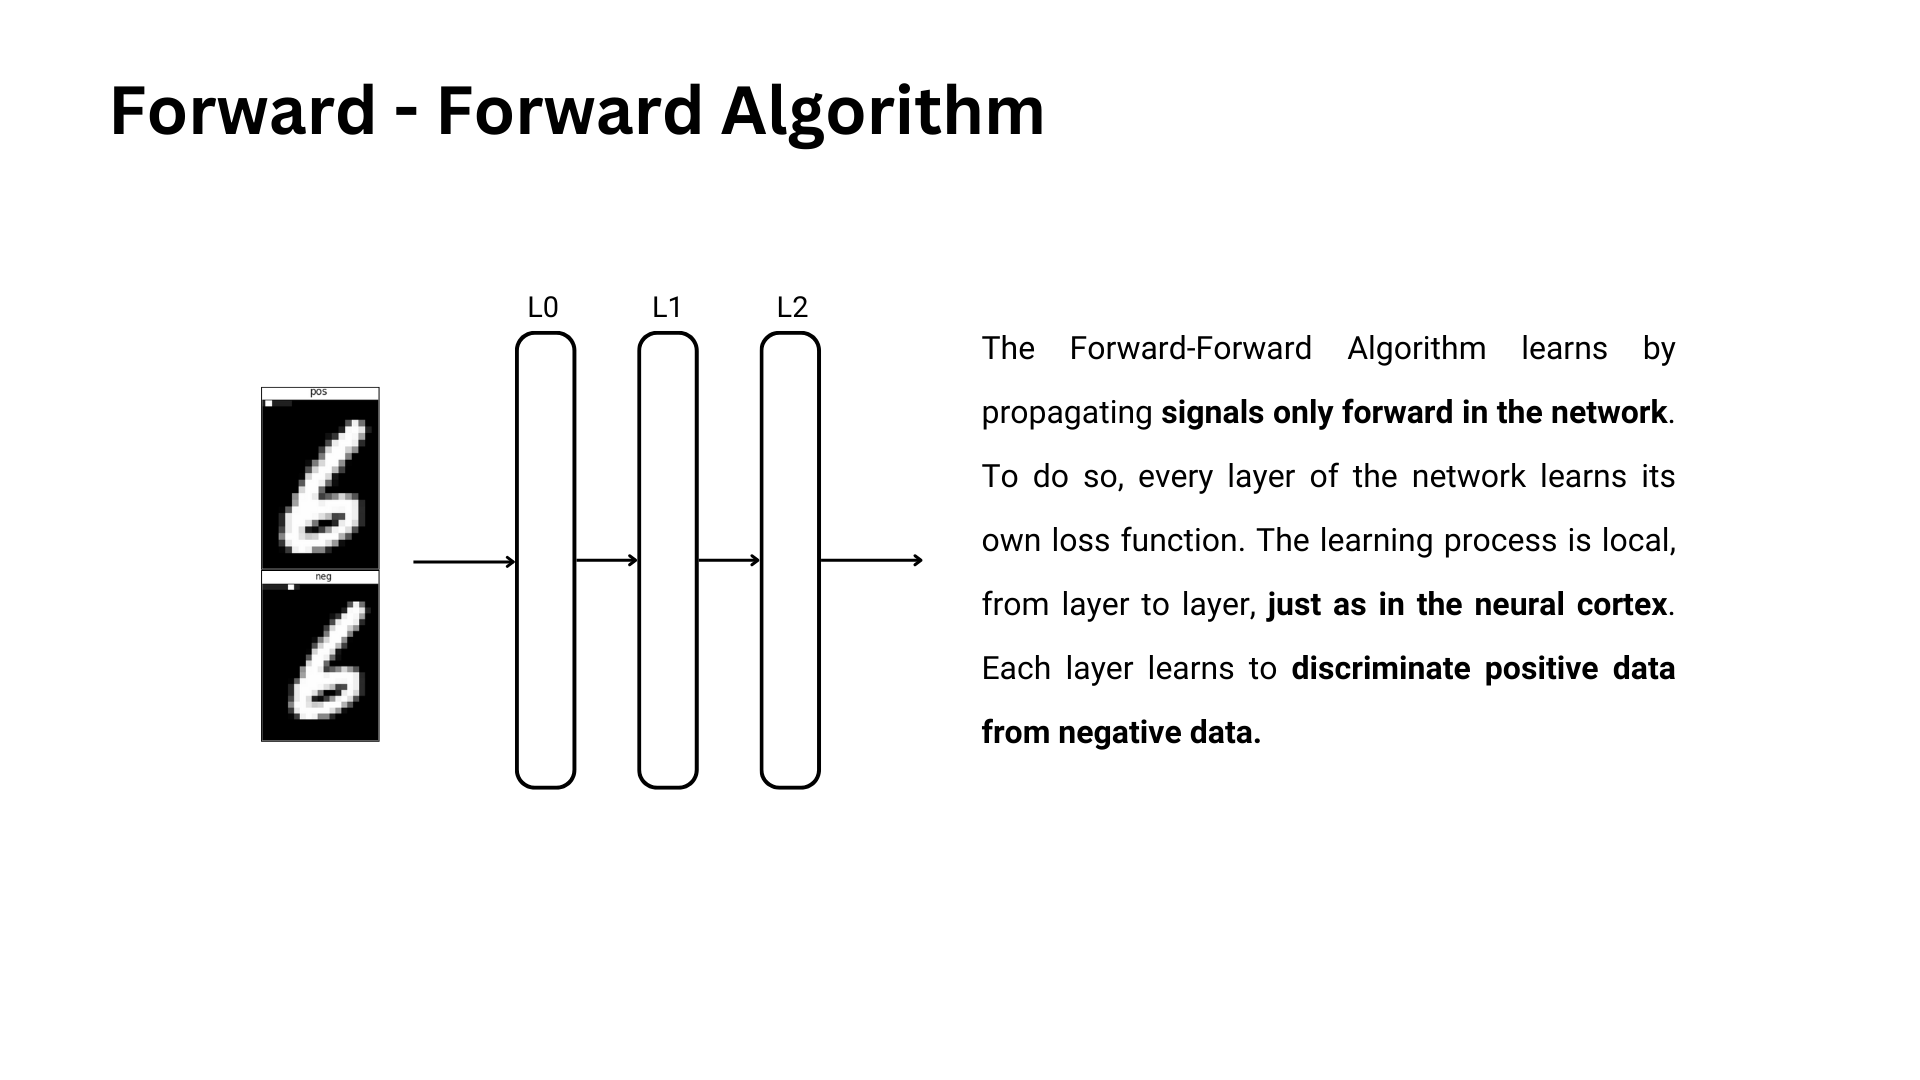
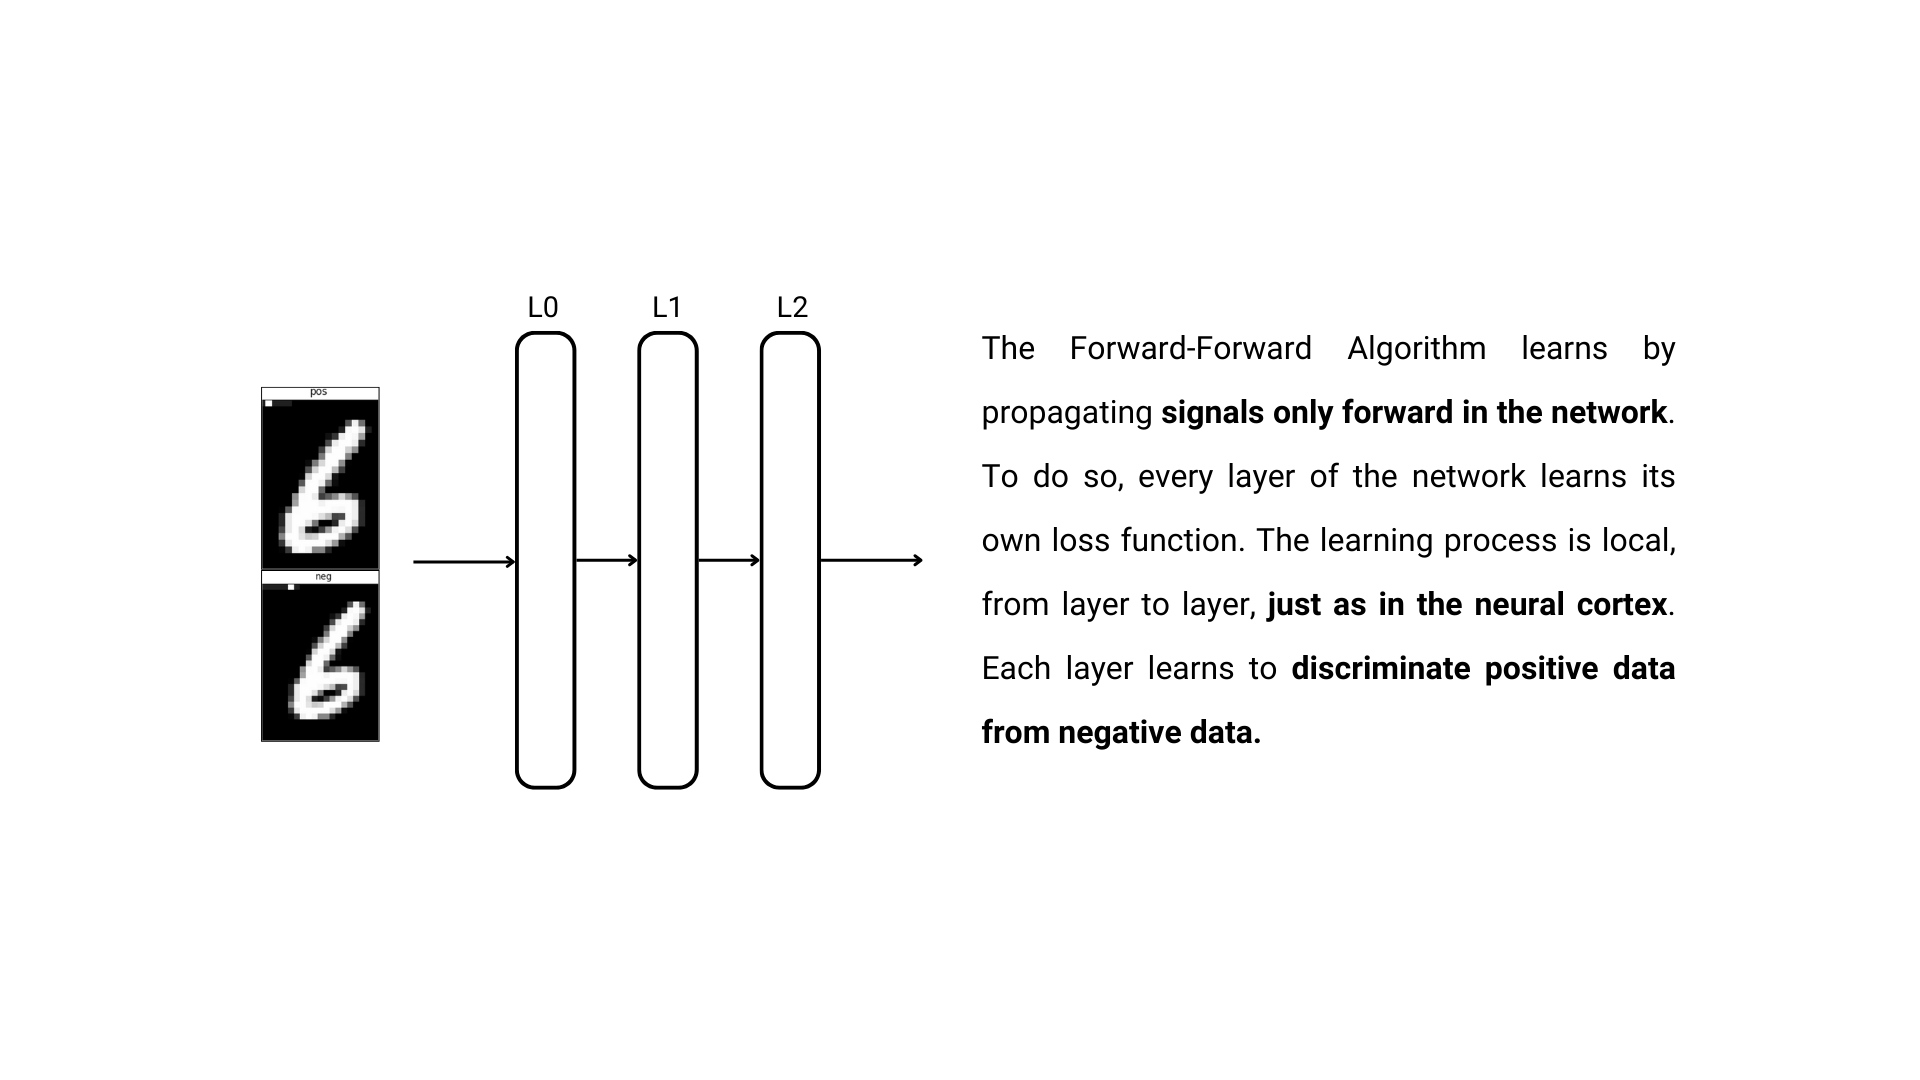
Readme update

Changed region(s): [[0.0625, 0.0611, 0.5625, 0.1528]]

diff --git a/README.md b/README.md
@@ -16,17 +16,24 @@ This is a work in progress, so some parts of the code are not yet optimized. I'm
 
 ## Theory Behind the Repository
 
+### Forward - Forward Algorithm
 ![Nome immagine](https://github.com/Nicola97/Spike-Implementation-of-the-Recurrent-Forward-Forward-Algorithm/blob/main/readme_images/ff_algorithm.png)
 
+### FF Algorithm - Loss Function
 ![Nome immagine](https://github.com/Nicola97/Spike-Implementation-of-the-Recurrent-Forward-Forward-Algorithm/blob/main/readme_images/loss_function.png)
 
+### FF Algorithm - Goodnes Function
 ![Nome immagine](https://github.com/Nicola97/Spike-Implementation-of-the-Recurrent-Forward-Forward-Algorithm/blob/main/readme_images/goodnes_function.png)
 
+### FF Algorithm - Recurrent Architecture
 ![Nome immagine](https://github.com/Nicola97/Spike-Implementation-of-the-Recurrent-Forward-Forward-Algorithm/blob/main/readme_images/recurrent_architecture.png)
 
+### FF Algorithm - Metalayer
 ![Nome immagine](https://github.com/Nicola97/Spike-Implementation-of-the-Recurrent-Forward-Forward-Algorithm/blob/main/readme_images/metalayer.png)
 
+### FF Algorithm - Spike Recurrent Architecture
 ![Nome immagine](https://github.com/Nicola97/Spike-Implementation-of-the-Recurrent-Forward-Forward-Algorithm/blob/main/readme_images/spike_recurrent_architecture.png)
 
+### FF Algorithm - Spike Metalayer
 ![Nome immagine](https://github.com/Nicola97/Spike-Implementation-of-the-Recurrent-Forward-Forward-Algorithm/blob/main/readme_images/spike_metalayer.png)
 
